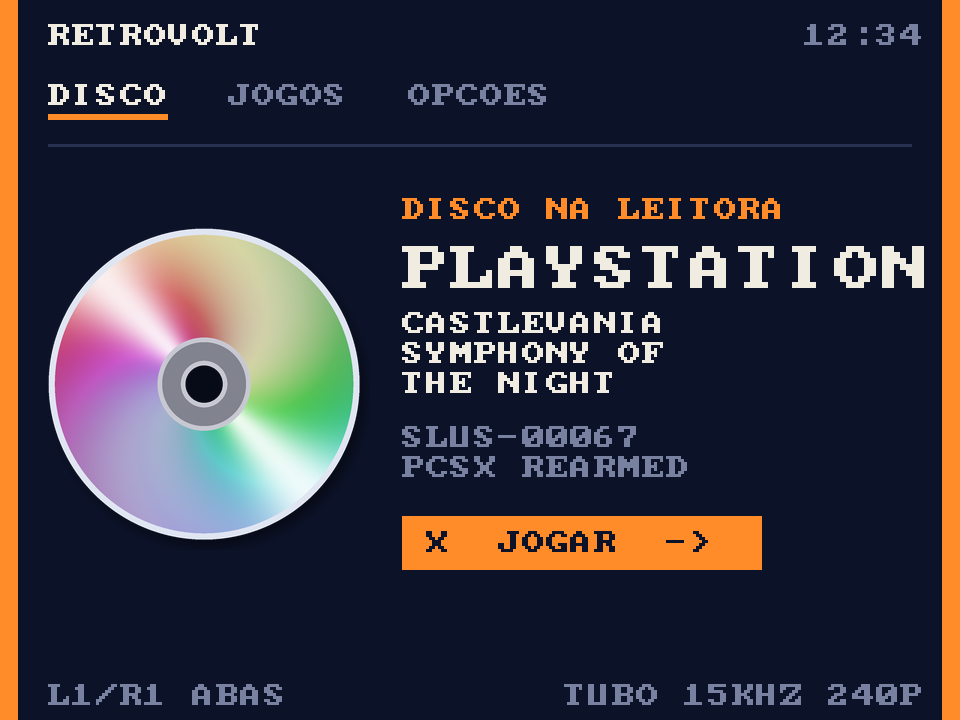
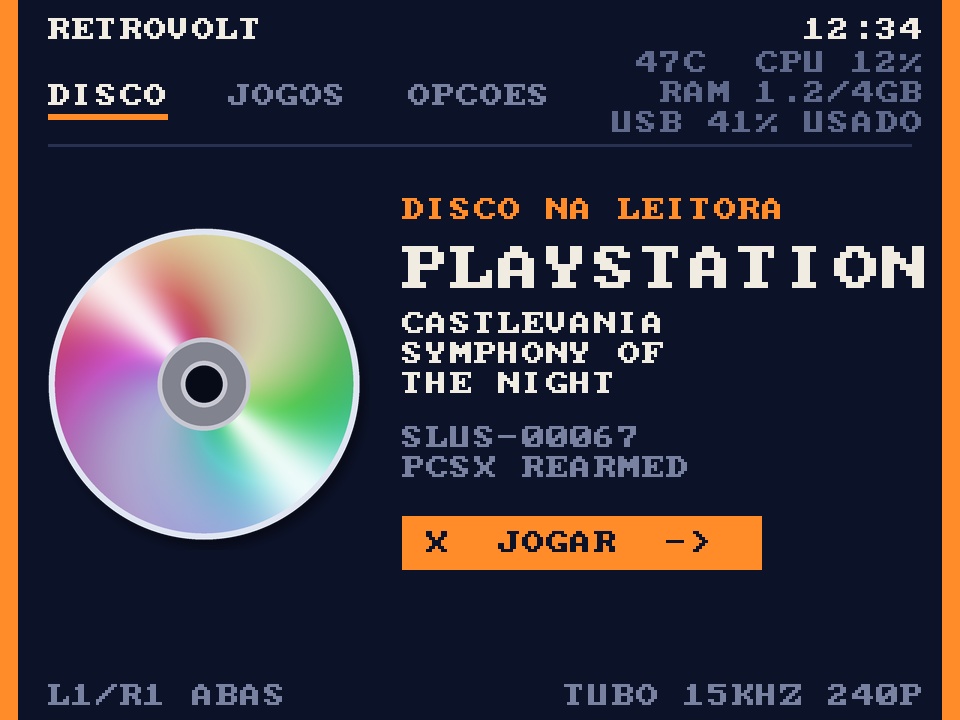
RETROVOLT Pi: status do sistema embaixo do relogio e imagem do console na aba JOGOS
Claude-Session: https://claude.ai/code/session_013oXuvB1yyyPjaNDGtAhqEA

Changed region(s): [[0.625, 0.0306, 0.9688, 0.1833], [0.0312, 0.0, 0.2812, 0.0611]]

diff --git a/retrovolt-pi/mockup/ps1img.py b/retrovolt-pi/mockup/ps1img.py
@@ -1,0 +1,49 @@
+import sys
+from PIL import Image, ImageDraw, ImageFilter
+K=4; Wd,Hd=360,408
+S=Image.new('RGBA',(Wd*K,Hd*K),(0,0,0,0)); d=ImageDraw.Draw(S)
+def rr(b,r,f,o=None,w=0): d.rounded_rectangle([v*K for v in b],r*K,fill=f,outline=o,width=w*K)
+def el(b,f,o=None,w=0): d.ellipse([v*K for v in b],fill=f,outline=o,width=w*K)
+# ---------------- console (vista de cima, levemente inclinada)
+rr((14,22,346,228),16,(120,120,128))            # sombra/base
+rr((10,14,350,214),16,(206,206,212))            # tampo
+rr((10,186,350,226),14,(160,160,168))           # frente
+rr((10,180,350,192),6,(186,186,194))
+# ranhuras do tampo (lado direito)
+for i in range(8): rr((250,40+i*9,334,43+i*9),2,(190,190,198))
+# tampa do CD
+el((40,30,230,206),(176,176,184))
+el((46,36,224,200),(196,196,204))
+el((60,50,210,186),(204,204,212),(182,182,190),2)
+el((120,110,150,140),(188,188,196))
+# botoes
+el((262,128,292,158),(150,150,158)); el((264,130,290,156),(186,186,194))     # reset
+el((302,128,332,158),(150,150,158)); el((304,130,330,156),(186,186,194))     # power
+el((306,164,314,172),(60,220,90))                                           # led
+rr((238,160,296,176),6,(150,150,158)); rr((240,162,294,174),5,(186,186,194)) # open
+# portas da frente
+for x in (70,200):
+    rr((x,195,x+70,218),4,(70,70,78)); rr((x+6,200,x+64,213),3,(30,30,34))
+    rr((x+10,188,x+60,193),2,(110,110,118))      # slot do memory card
+# ---------------- controle
+cy=262
+el((40,cy+40,140,cy+138),(176,176,184)); el((220,cy+40,320,cy+138),(176,176,184))   # punhos
+rr((60,cy,300,cy+92),40,(196,196,204))
+el((44,cy+44,136,cy+132),(196,196,204)); el((224,cy+44,316,cy+132),(196,196,204))
+rr((70,cy-8,120,cy+6),6,(150,150,158)); rr((240,cy-8,290,cy+6),6,(150,150,158))     # L/R
+# direcional
+el((70,cy+16,140,cy+86),(184,184,192))
+rr((98,cy+26,112,cy+76),3,(80,80,88)); rr((80,cy+44,130,cy+58),3,(80,80,88))
+# botoes de acao (cores, sem simbolos)
+el((220,cy+16,290,cy+86),(184,184,192))
+for (x,y,c) in ((255,cy+30,(70,200,140)),(275,cy+51,(230,90,90)),(255,cy+72,(110,150,230)),(235,cy+51,(220,140,200))):
+    el((x-9,y-9,x+9,y+9),(70,70,78)); el((x-7,y-7,x+7,y+7),c)
+# start/select
+rr((160,cy+50,176,cy+56),3,(90,90,98)); rr((186,cy+50,202,cy+56),3,(90,90,98))
+# cabo
+d.line([(180*K,cy*K),(180*K,(cy-12)*K)],fill=(60,60,66),width=4*K)
+img=S.resize((Wd,Hd),Image.LANCZOS)
+# sombra suave
+sh=Image.new('RGBA',(Wd+20,Hd+20),(0,0,0,0)); sh.paste((0,0,0,120),(10,16),img)
+sh=sh.filter(ImageFilter.GaussianBlur(8)); sh.alpha_composite(img,(6,4))
+sh.save(sys.argv[1])

diff --git a/retrovolt-pi/mockup/themeF.py b/retrovolt-pi/mockup/themeF.py
@@ -5,7 +5,10 @@ NAV=(12,18,40); OR=(255,140,40); IV=(240,236,225); SL=(120,130,160)
 def editF(tab, foot_r):
     c=C(NAV)
     c.rect(0,0,6,H,OR); c.rect(W-6,0,6,H,OR)
-    c.txt(16,8,"RETROVOLT",IV); c.rtxt(W-12,8,"12:34",SL)
+    c.txt(16,6,"RETROVOLT",IV); c.rtxt(W-12,6,"12:34",IV)
+    c.rtxt(W-12,17,"47C  CPU 12%",(95,105,140))
+    c.rtxt(W-12,27,"RAM 1.2/4GB",(95,105,140))
+    c.rtxt(W-12,37,"USB 41% USADO",(95,105,140))
     x=16
     for n,t in enumerate(TABS):
         on=(n==tab)

diff --git a/retrovolt-pi/DESIGN.md b/retrovolt-pi/DESIGN.md
@@ -9,6 +9,10 @@ HDMI > componente para TV de tubo). Detalhes tecnicos e fases ficam no plano.
   (120,130,160); destaque laranja (255,140,40).
 - Tarja laranja vertical nos DOIS lados da tela.
 - Topo: "RETROVOLT" a esquerda, relogio a direita.
+- Embaixo do relogio (alinhado a direita, cinza mais apagado), 3 linhas:
+  temperatura + uso da CPU ("47C  CPU 12%"), memoria ("RAM 1.2/4GB") e o
+  dispositivo de jogos com o espaco usado ("USB 41% USADO" ou "SD ...").
+  O dispositivo (SD ou pendrive) e escolhido em OPCOES > PASTAS DE JOGOS.
 - Abas DISCO / JOGOS / OPCOES, trocadas com L1/R1, SEM numeros, fonte normal
   (8x8, mesmo tamanho do resto); aba ativa em marfim com sublinhado laranja.
 - Listas uma embaixo da outra, sem numeros e sem contagem de itens.
